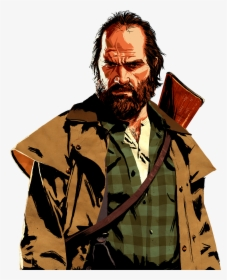
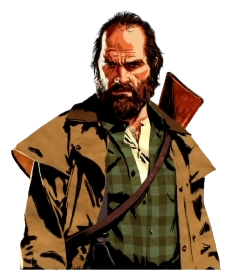
прибрав фони у цілей

diff --git a/src/js/game.js b/src/js/game.js
@@ -15,13 +15,14 @@ document.addEventListener("DOMContentLoaded", () => {
 
   // Масив зображень для зміни
   const images = [
-    "../../src/img/bohhh.webp",
-    "../src/img/arthur.webp",
-    "../src/img/boh.webp",
+    "../src/img/bohhh.png",
+    "../src/img/arthur.png",
+    "../src/img/boh.png",
     "../src/img/bill.png",
     "../src/img/dutch.png",
     "../src/img/jm.png",
     "../src/img/rat.png",
+    "../src/img/javier.png",
   ];
 
   function showGame() {
